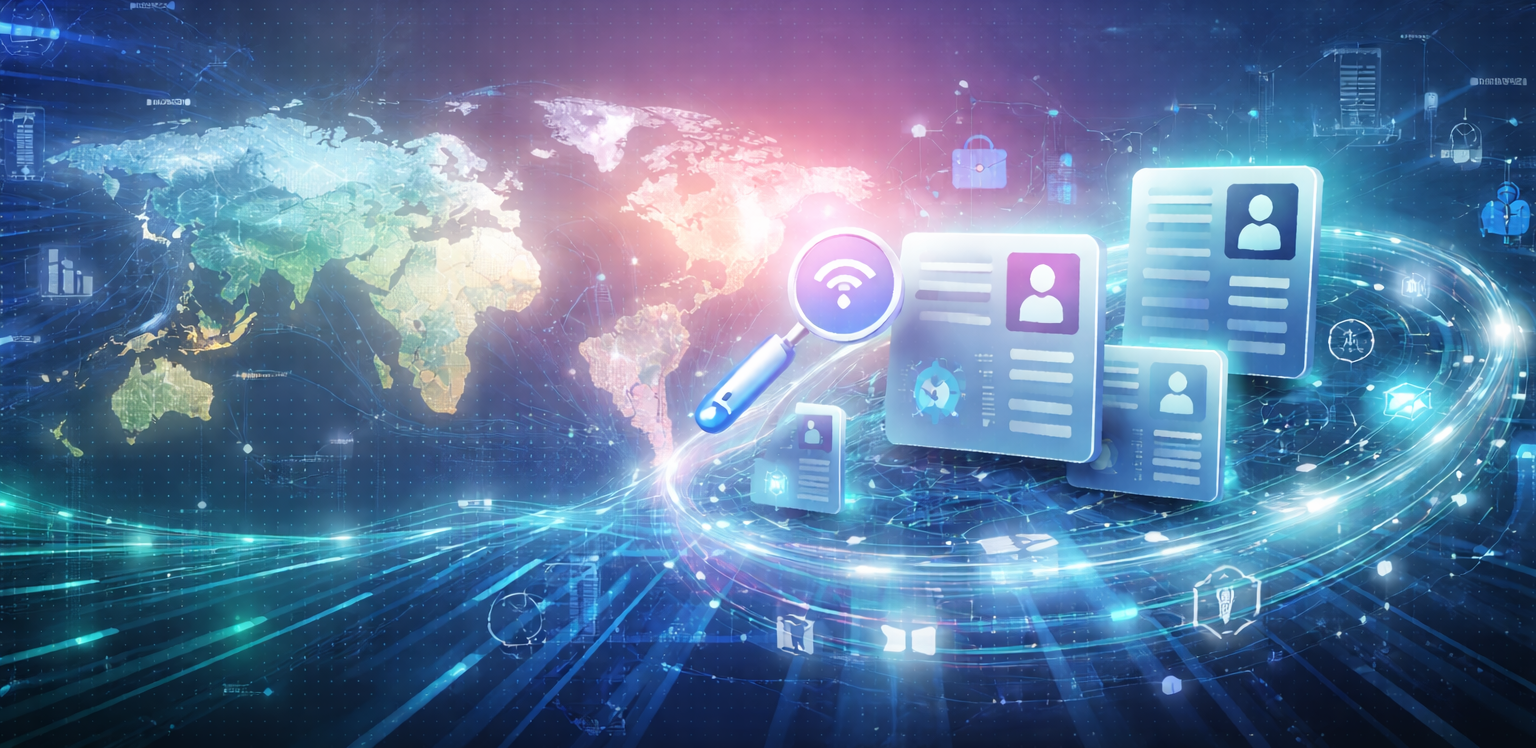
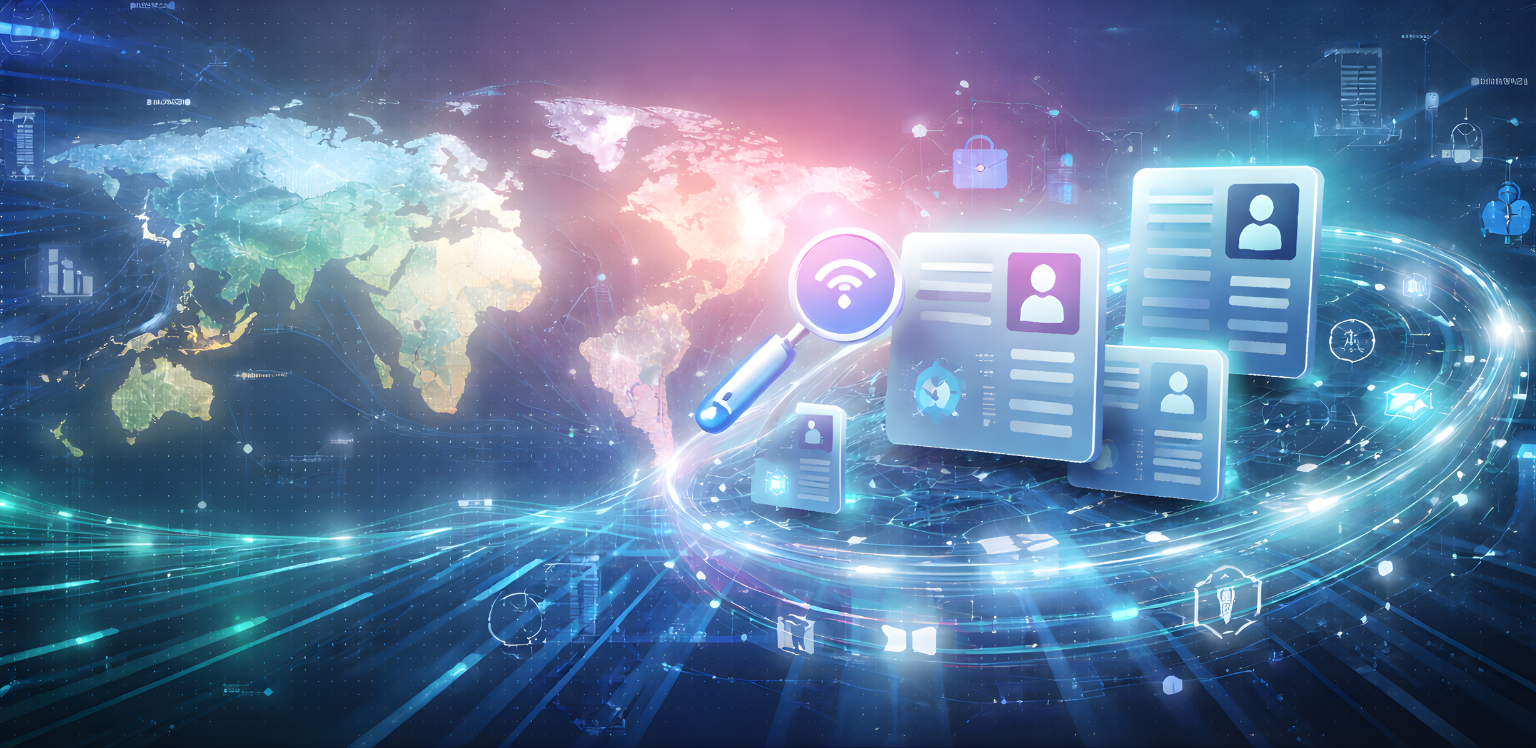
hero Image upscaling

diff --git a/app/ecosystem/startup-funding/page.tsx b/app/ecosystem/startup-funding/page.tsx
@@ -143,7 +143,7 @@ export default function StartupFundingPage() {
         label="Ecosystem / Startup Funding"
         title="Startup Funding Opportunities"
         subtitle="The UK-Pakistan Tech Council supports early-stage technology startups in accessing funding, investment networks, and growth capital to turn innovative ideas into scalable businesses."
-        image="/image/banners/banner96.png"
+        image="/image/banners/banner109.png"
       >
         <div className="flex flex-wrap items-center gap-4">
           <ShinyButton href="/membership">Access Funding</ShinyButton>

diff --git a/app/about/mission/page.tsx b/app/about/mission/page.tsx
@@ -33,7 +33,7 @@ export default function MissionPage() {
         label="Our Mission"
         title="Mission"
         subtitle="Our mission is to transform Pakistan into a thriving tech hub. By forging connections with global experts and harnessing diverse resources, we're setting the stage for a tech-driven future."
-        image="/image/banners/banner98.png"
+        image="/image/banners/banner116.png"
       >
         <div className="flex flex-wrap items-center gap-4">
           <ShinyButton href="/membership/apply">Join UPTECH</ShinyButton>
